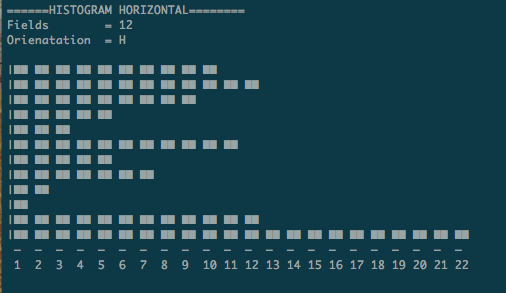
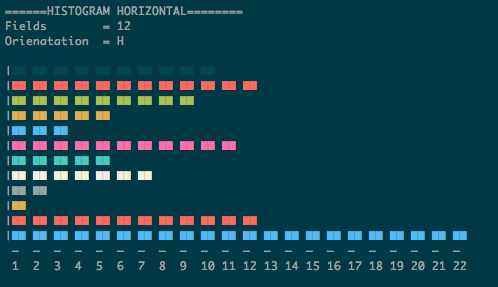
color update

Changed region(s): [[0.0, 0.0, 0.9639, 1.0]]

diff --git a/src/hist.c b/src/hist.c
@@ -100,8 +100,7 @@ void runHistInfo(struct histogram *a, int v)
 	}
 
 
-
-
+	printf("\n");
 }
 
 /* Initialize a new histogram */
@@ -159,9 +158,13 @@ int histPrint(struct histogram *a)
 				if(a->data[f].freq < y)
 					printf(" ");
 
-				else	
+				else {	
+					printf("%s",a->data[f].cv);
 					printf("█");
+				}
+					
 
+				printf("%s", DEFAULT);
 				printf("  ");
 			}
 			
@@ -182,9 +185,12 @@ int histPrint(struct histogram *a)
 					if(a->data[y].freq < i)
 						printf(" ");
 
-					else
+					else {
+						printf("%s",a->data[y].cv);
 						printf("██");
+					}
 
+					printf("%s", DEFAULT);
 					printf(" ");
 						
 				}
@@ -207,8 +213,7 @@ int histPrint(struct histogram *a)
 		}
 
 	}
-
-		printf("\n");
+		printf("\n\n");
 
 	free(enumWidth);
 	free(horiz_spacing);

diff --git a/src/unix_colors.h b/src/unix_colors.h
@@ -1,0 +1,15 @@
+#ifndef UNIX_COLORS_H_
+#define UNIX_COLORS_H_
+
+/* COLORS */
+#define BLACK "\033[30m"
+#define RED "\033[31m"
+#define GREEN "\033[32m"
+#define YELLOW "\033[33m"
+#define BLUE "\033[34m"
+#define MAGENTA "\033[35m"
+#define CYAN "\033[36m"
+#define WHITE "\033[37m"
+#define DEFAULT "\033[39m"
+
+#endif

diff --git a/src/hist.h b/src/hist.h
@@ -6,6 +6,7 @@
 #include <stdio.h>
 #include <stdlib.h>
 #include <string.h>
+#include "unix_colors.h"
 
 /* Wordplay humour */
 enum VERBOSE	{ LITE, FULL };
